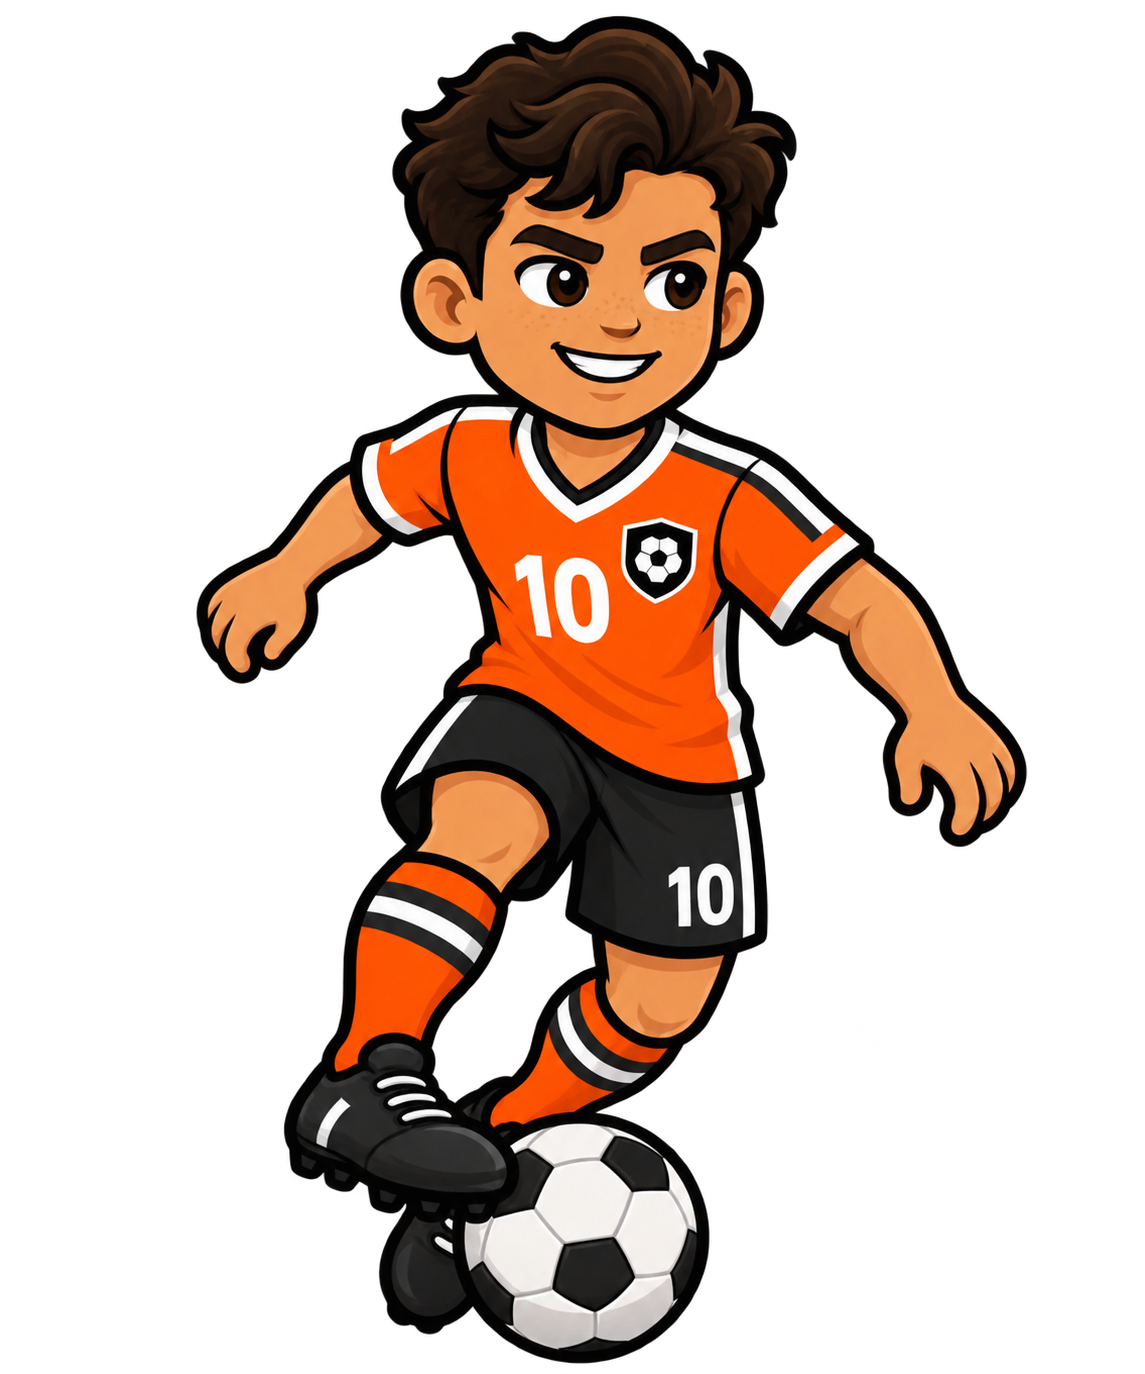
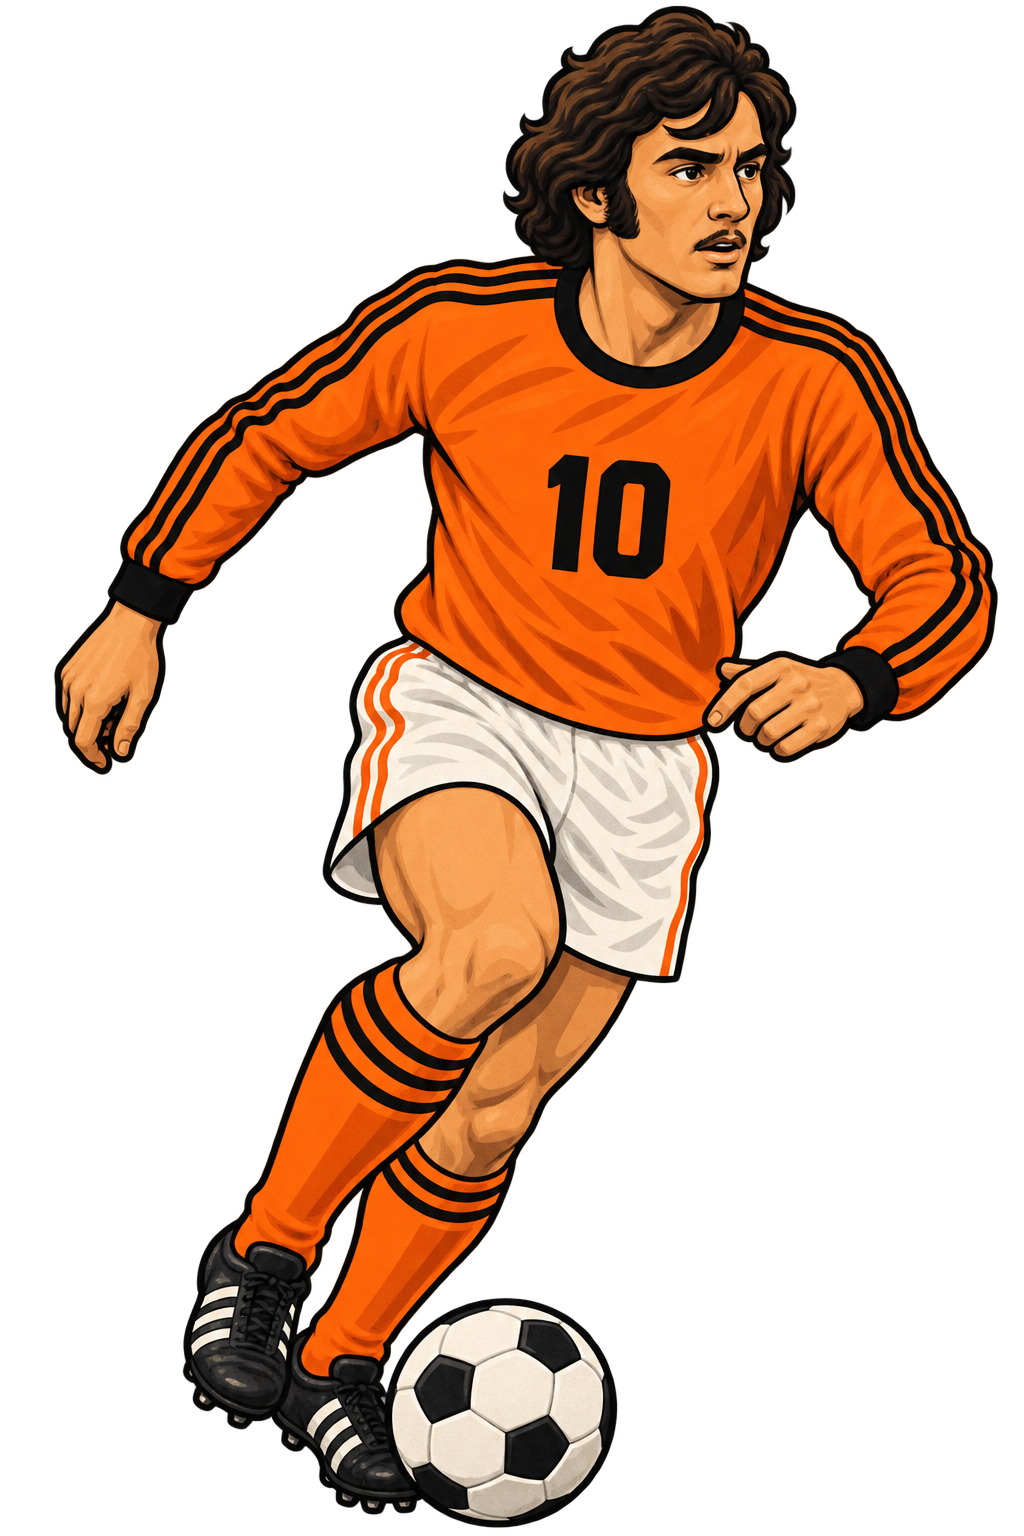
1974-style figures for all four players
Claude-Session: https://claude.ai/code/session_01SJFgZ3ntddE1JVA3buEB2q

diff --git a/talk/index.html b/talk/index.html
@@ -297,7 +297,7 @@
         <svg class="radar" viewBox="0 0 200 200"><g class="grid"><polygon points="100.0,72.3 124.0,86.1 124.0,113.9 100.0,127.7 76.0,113.9 76.0,86.1"/><polygon points="100.0,44.6 148.0,72.3 148.0,127.7 100.0,155.4 52.0,127.7 52.0,72.3"/><polygon points="100.0,16.0 172.7,58.0 172.7,142.0 100.0,184.0 27.3,142.0 27.3,58.0"/><line x1="100" y1="100" x2="100.0" y2="16.0"/><line x1="100" y1="100" x2="172.7" y2="58.0"/><line x1="100" y1="100" x2="172.7" y2="142.0"/><line x1="100" y1="100" x2="100.0" y2="184.0"/><line x1="100" y1="100" x2="27.3" y2="142.0"/><line x1="100" y1="100" x2="27.3" y2="58.0"/></g><polygon class="shape" points="100.0,22.7 150.9,70.6 140.0,123.1 100.0,116.8 67.3,118.9 45.4,68.5"/></svg>
       </div>
     </div>
-    <img class="place figure" data-obj="fig2" src="img/player2.png" alt="" style="left: 2770px; top: 1612px; width: 540px;">
+    <img class="place figure" data-obj="fig2" src="img/player2.png?v=2" alt="" style="left: 2770px; top: 1612px; width: 540px;">
     <div class="place card" data-obj="card2" style="left: 3340px; top: 1552px; width: 1260px; transform: rotate(1.5deg);">
       <div class="card-body">
         <div class="card-title"><span class="hand">Defender</span><span class="pos">DEF</span></div>
@@ -310,7 +310,7 @@
         <svg class="radar" viewBox="0 0 200 200"><g class="grid"><polygon points="100.0,72.3 124.0,86.1 124.0,113.9 100.0,127.7 76.0,113.9 76.0,86.1"/><polygon points="100.0,44.6 148.0,72.3 148.0,127.7 100.0,155.4 52.0,127.7 52.0,72.3"/><polygon points="100.0,16.0 172.7,58.0 172.7,142.0 100.0,184.0 27.3,142.0 27.3,58.0"/><line x1="100" y1="100" x2="100.0" y2="16.0"/><line x1="100" y1="100" x2="172.7" y2="58.0"/><line x1="100" y1="100" x2="172.7" y2="142.0"/><line x1="100" y1="100" x2="100.0" y2="184.0"/><line x1="100" y1="100" x2="27.3" y2="142.0"/><line x1="100" y1="100" x2="27.3" y2="58.0"/></g><polygon class="shape" points="100.0,87.4 165.5,62.2 147.3,127.3 100.0,129.4 49.1,129.4 38.2,64.3"/></svg>
       </div>
     </div>
-    <img class="place figure" data-obj="fig3" src="img/player3.png" alt="" style="left: 3692px; top: 1612px; width: 540px;">
+    <img class="place figure" data-obj="fig3" src="img/player3.png?v=2" alt="" style="left: 3692px; top: 1612px; width: 540px;">
     <div class="place card" data-obj="card3" style="left: 4262px; top: 1552px; width: 1260px; transform: rotate(-1.5deg);">
       <div class="card-body">
         <div class="card-title"><span class="hand">Midfielder</span><span class="pos">MID</span></div>
@@ -323,7 +323,7 @@
         <svg class="radar" viewBox="0 0 200 200"><g class="grid"><polygon points="100.0,72.3 124.0,86.1 124.0,113.9 100.0,127.7 76.0,113.9 76.0,86.1"/><polygon points="100.0,44.6 148.0,72.3 148.0,127.7 100.0,155.4 52.0,127.7 52.0,72.3"/><polygon points="100.0,16.0 172.7,58.0 172.7,142.0 100.0,184.0 27.3,142.0 27.3,58.0"/><line x1="100" y1="100" x2="100.0" y2="16.0"/><line x1="100" y1="100" x2="172.7" y2="58.0"/><line x1="100" y1="100" x2="172.7" y2="142.0"/><line x1="100" y1="100" x2="100.0" y2="184.0"/><line x1="100" y1="100" x2="27.3" y2="142.0"/><line x1="100" y1="100" x2="27.3" y2="58.0"/></g><polygon class="shape" points="100.0,91.6 143.6,74.8 166.9,138.6 100.0,158.8 45.4,131.5 34.5,62.2"/></svg>
       </div>
     </div>
-    <img class="place figure" data-obj="fig4" src="img/player4.png" alt="" style="left: 4616px; top: 1612px; width: 540px;">
+    <img class="place figure" data-obj="fig4" src="img/player4.png?v=2" alt="" style="left: 4616px; top: 1612px; width: 540px;">
     <div class="place card" data-obj="card4" style="left: 3326px; top: 1552px; width: 1260px; transform: rotate(1.5deg);">
       <div class="card-body">
         <div class="card-title"><span class="hand">Striker</span><span class="pos">ST</span></div>
@@ -336,10 +336,10 @@
         <svg class="radar" viewBox="0 0 200 200"><g class="grid"><polygon points="100.0,72.3 124.0,86.1 124.0,113.9 100.0,127.7 76.0,113.9 76.0,86.1"/><polygon points="100.0,44.6 148.0,72.3 148.0,127.7 100.0,155.4 52.0,127.7 52.0,72.3"/><polygon points="100.0,16.0 172.7,58.0 172.7,142.0 100.0,184.0 27.3,142.0 27.3,58.0"/><line x1="100" y1="100" x2="100.0" y2="16.0"/><line x1="100" y1="100" x2="172.7" y2="58.0"/><line x1="100" y1="100" x2="172.7" y2="142.0"/><line x1="100" y1="100" x2="100.0" y2="184.0"/><line x1="100" y1="100" x2="27.3" y2="142.0"/><line x1="100" y1="100" x2="27.3" y2="58.0"/></g><polygon class="shape" points="100.0,91.6 121.8,87.4 143.6,125.2 100.0,179.0 36.0,137.0 49.1,70.6"/></svg>
       </div>
     </div>
-    <div class="place hand poslabel" data-obj="poslabel1" style="left: 1816px; top: 2222px; width: 600px;">Goalkeeper</div>
-    <div class="place hand poslabel" data-obj="poslabel2" style="left: 2740px; top: 2222px; width: 600px;">Defender</div>
-    <div class="place hand poslabel" data-obj="poslabel3" style="left: 3662px; top: 2222px; width: 600px;">Midfielder</div>
-    <div class="place hand poslabel" data-obj="poslabel4" style="left: 4586px; top: 2222px; width: 600px;">Striker</div>
+    <div class="place hand poslabel" data-obj="poslabel1" style="left: 1816px; top: 2372px; width: 600px;">Goalkeeper</div>
+    <div class="place hand poslabel" data-obj="poslabel2" style="left: 2740px; top: 2372px; width: 600px;">Defender</div>
+    <div class="place hand poslabel" data-obj="poslabel3" style="left: 3662px; top: 2372px; width: 600px;">Midfielder</div>
+    <div class="place hand poslabel" data-obj="poslabel4" style="left: 4586px; top: 2372px; width: 600px;">Striker</div>
     <img class="place figure" data-obj="fig5" src="img/player5.png" alt="" style="left: 3171px; top: 1522px; width: 600px;">
     <div class="place card" data-obj="card5" style="left: 3831px; top: 1552px; width: 1260px; transform: rotate(-1.5deg);">
       <div class="card-body">
